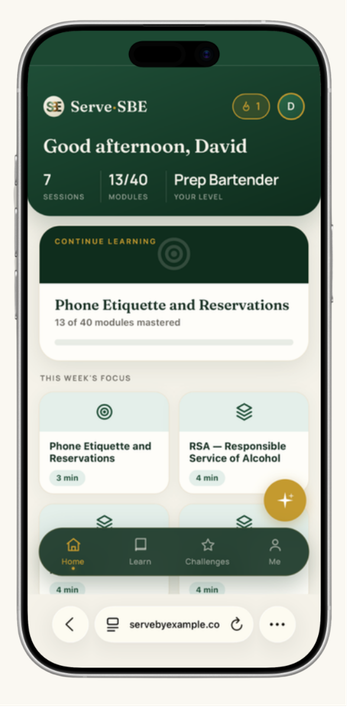
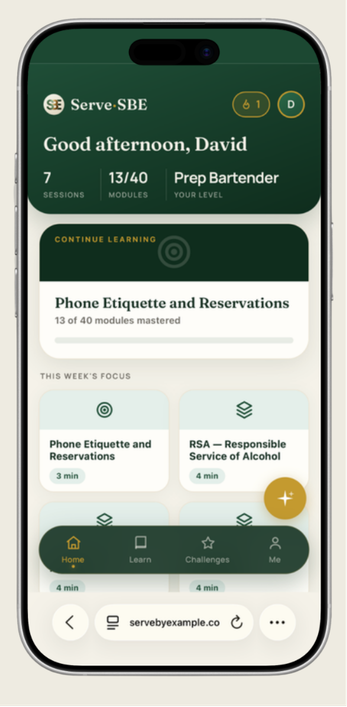
feat: update platform page mobile screenshot with new UI

diff --git a/app/platform/page.tsx b/app/platform/page.tsx
@@ -268,10 +268,10 @@ export default function PlatformPage() {
               <Image
                 src="/shots/Mobile View.png"
                 alt="Serve By Example staff training app on mobile — pre-shift brief screen"
-                width={390}
-                height={780}
+                width={347}
+                height={707}
                 sizes="(max-width: 768px) 80vw, 320px"
-                style={{ width: "100%", maxWidth: "320px", height: "auto", display: "block" }}
+                style={{ width: "100%", maxWidth: "320px", height: "auto", display: "block", margin: "0 auto" }}
               />
             </div>
           </div>